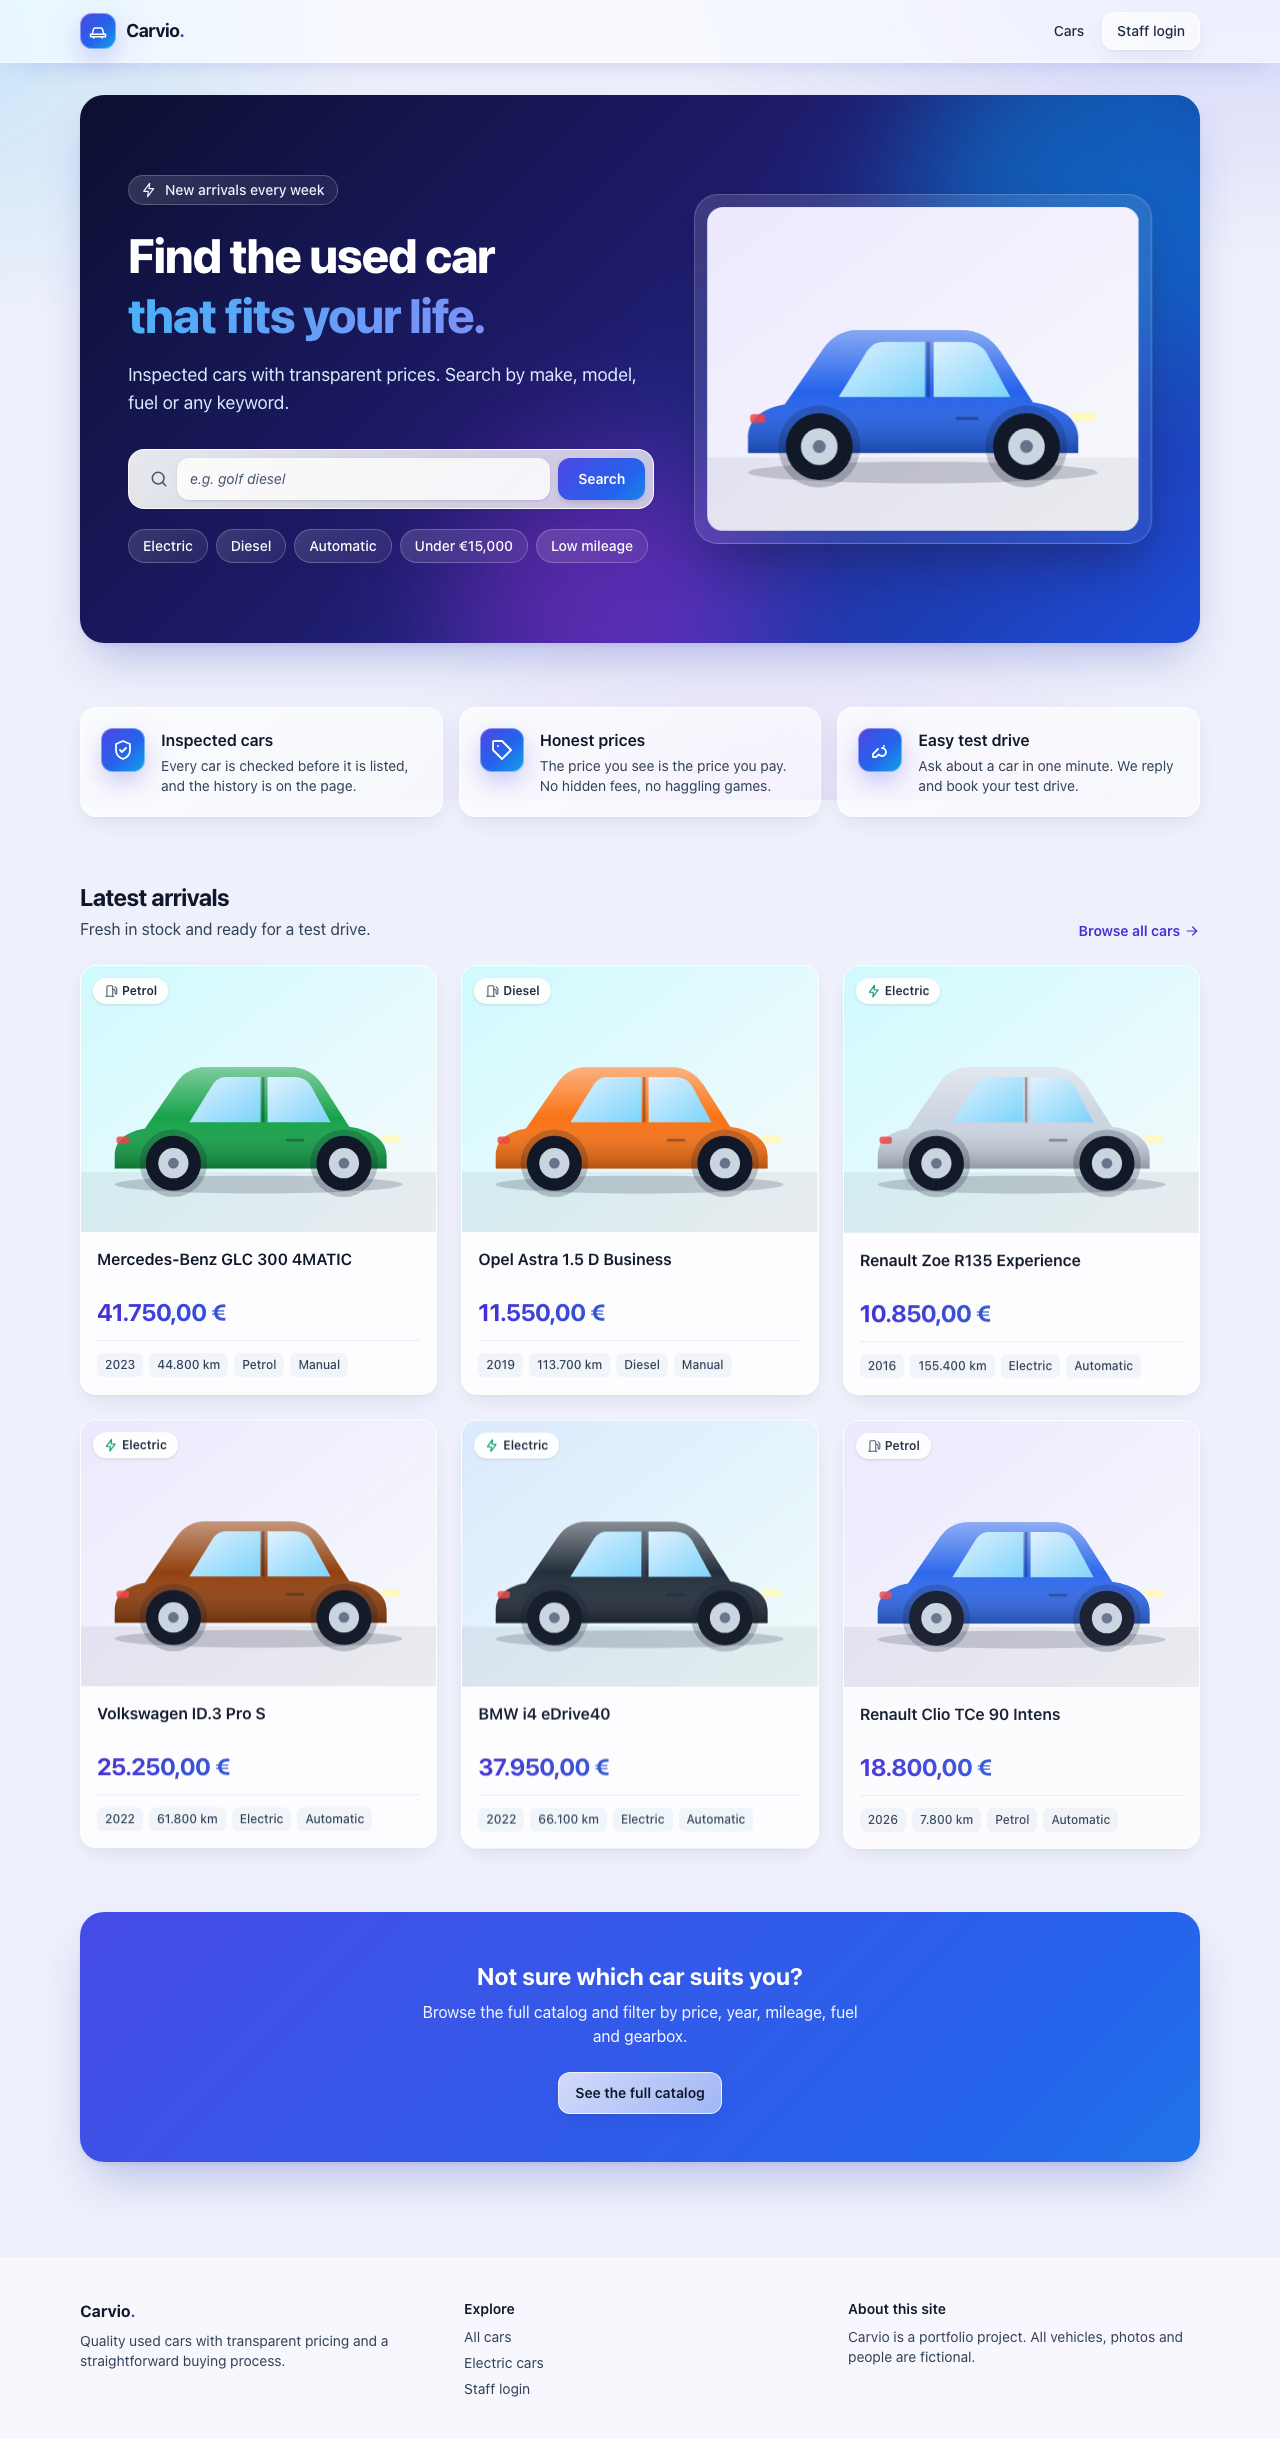
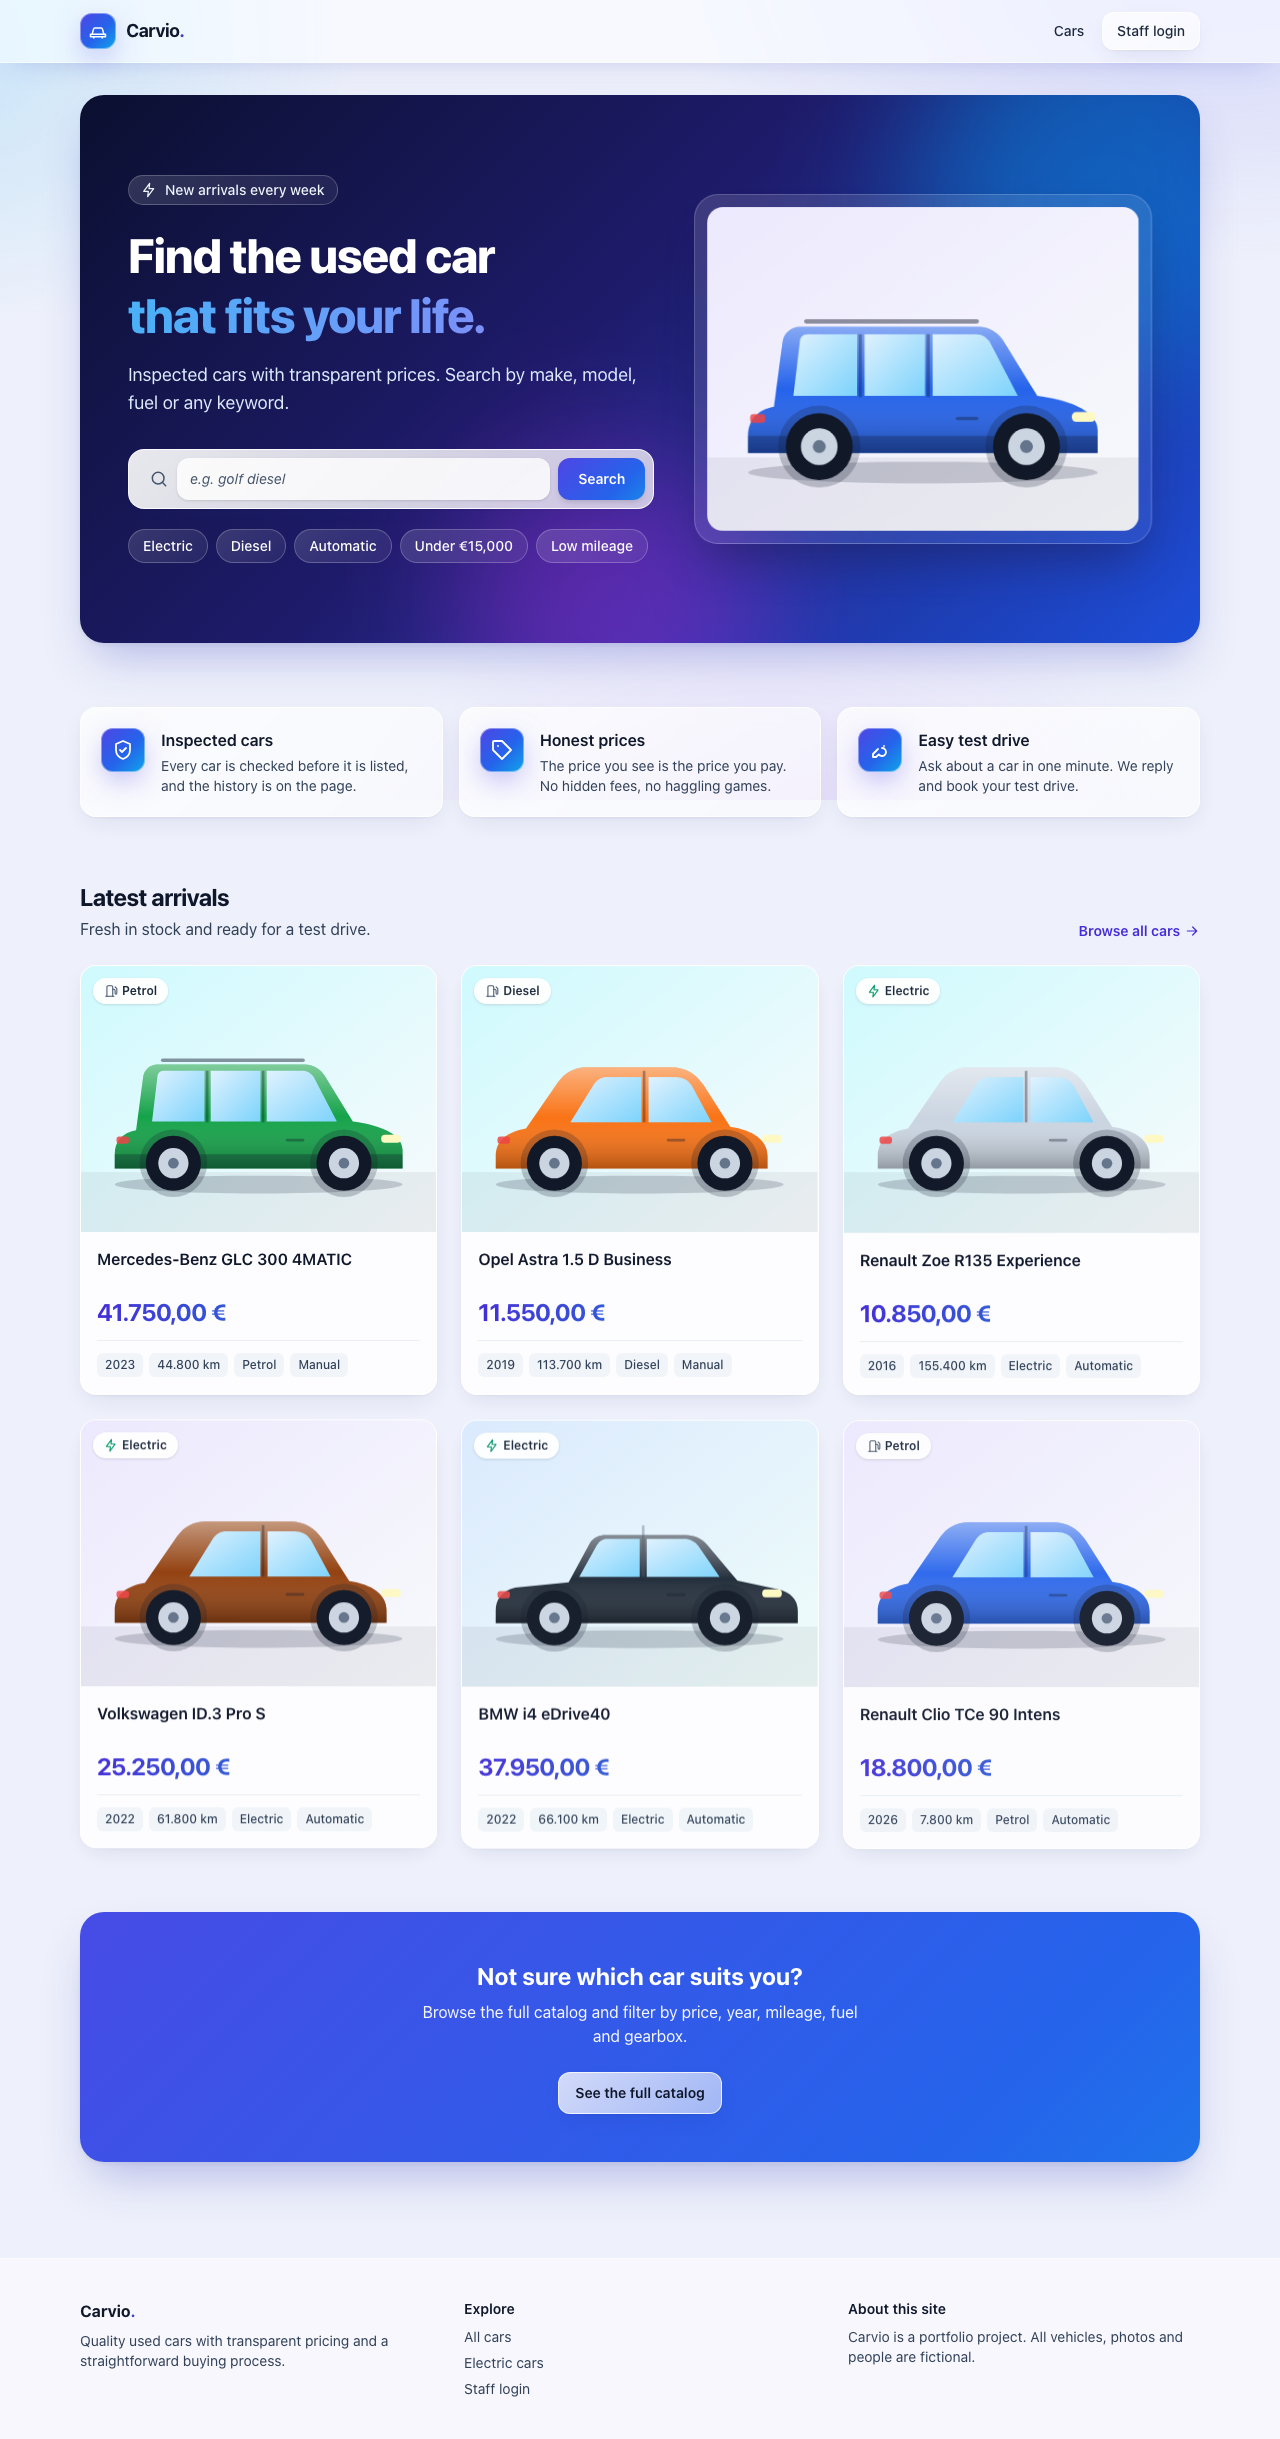
feat(web): body-type car illustrations and response-time and lead-source stats on the dashboard

diff --git a/apps/web/src/components/car-art.tsx b/apps/web/src/components/car-art.tsx
@@ -1,4 +1,50 @@
 import { useId } from 'react';
+import type { BodyType } from '@/lib/body-type';
+
+type Shape = {
+  body: string;
+  windows: string[];
+  pillars: number[];
+  rails?: string;
+  cladding?: string;
+};
+
+const SHAPES: Record<BodyType, Shape> = {
+  hatch: {
+    body: 'M38 214c0-17 12-27 34-31l36-52c8-11 18-17 32-17h96c15 0 27 7 36 20l30 47c26 4 42 15 42 33v14H38v-14Z',
+    windows: [
+      'M122 176l26-42c4-6 9-9 16-9h38v51H122Z',
+      'M210 125h30c8 0 14 3 19 10l22 41h-71v-51Z',
+    ],
+    pillars: [205],
+  },
+  sedan: {
+    body: 'M38 214c0-12 6-22 22-26l60-6 24-44c4-6 10-9 18-9h90c10 0 18 4 24 11l34 40 46 10c14 3 22 12 22 24v14H38v-14Z',
+    windows: ['M132 176l20-36c3-5 7-7 12-7h36v43z', 'M208 133h42c7 0 12 3 16 8l24 35h-82z'],
+    pillars: [204],
+  },
+  wagon: {
+    body: 'M38 214c0-12 6-22 22-26l12-46c1-7 7-12 14-12h166c10 0 18 4 24 11l34 39 46 10c14 3 22 12 22 24v14H38v-14Z',
+    windows: [
+      'M90 176l-4-38c0-3 2-5 5-5h54v43z',
+      'M152 133h50v43h-50z',
+      'M209 133h41c7 0 12 3 16 8l24 35h-81z',
+    ],
+    pillars: [148, 205],
+    rails: 'M90 125h160',
+  },
+  suv: {
+    body: 'M38 212c0-14 8-24 24-27l8-60c1-8 8-14 16-14h166c9 0 17 5 22 12l32 52c24 3 56 12 56 32v21H38v-16Z',
+    windows: [
+      'M80 175l6-50c0-4 3-7 7-7h46v57z',
+      'M146 118h56v57h-56z',
+      'M209 118h40c6 0 10 3 13 7l26 50h-79z',
+    ],
+    pillars: [142, 205],
+    rails: 'M92 106h158',
+    cladding: 'M38 212h324v16H38z',
+  },
+};
 
 const BODY: Record<string, string> = {
   black: '#1f2937',
@@ -42,17 +88,20 @@ export function CarArt({
   seed,
   colour,
   label,
+  body: bodyType = 'hatch',
   className = 'h-full w-full',
 }: {
   seed: string;
+  body?: BodyType;
   colour?: string | null;
   label: string;
   className?: string;
 }) {
   const uid = useId().replace(/:/g, '');
   const [from, to] = BACKDROPS[hash(seed) % BACKDROPS.length];
-  const body = bodyColour(colour);
-  const dark = body === '#1f2937';
+  const paint = bodyColour(colour);
+  const dark = paint === '#1f2937';
+  const shape = SHAPES[bodyType];
   return (
     <svg
       viewBox="0 0 400 300"
@@ -78,23 +127,30 @@ export function CarArt({
       <rect width="400" height="300" fill={`url(#${uid}-bg)`} />
       <rect y="232" width="400" height="68" fill="#0f172a" opacity="0.06" />
       <ellipse cx="200" cy="246" rx="162" ry="10" fill="#0f172a" opacity="0.18" />
-      <path
-        id={`${uid}-body`}
-        d="M38 214c0-17 12-27 34-31l36-52c8-11 18-17 32-17h96c15 0 27 7 36 20l30 47c26 4 42 15 42 33v14H38v-14Z"
-        fill={body}
-      />
-      <path
-        d="M38 214c0-17 12-27 34-31l36-52c8-11 18-17 32-17h96c15 0 27 7 36 20l30 47c26 4 42 15 42 33v14H38v-14Z"
-        fill={`url(#${uid}-sheen)`}
-      />
-      <path d="M122 176l26-42c4-6 9-9 16-9h38v51H122Z" fill={`url(#${uid}-glass)`} />
-      <path d="M210 125h30c8 0 14 3 19 10l22 41h-71v-51Z" fill={`url(#${uid}-glass)`} />
-      <path
-        d="M205 125v51"
-        stroke={dark ? '#475569' : '#0f172a'}
-        strokeOpacity="0.35"
-        strokeWidth="3"
-      />
+      <path d={shape.body} fill={paint} />
+      <path d={shape.body} fill={`url(#${uid}-sheen)`} />
+      {shape.cladding && <path d={shape.cladding} fill="#0f172a" opacity="0.28" />}
+      {shape.rails && (
+        <path
+          d={shape.rails}
+          stroke="#0f172a"
+          strokeOpacity="0.45"
+          strokeWidth="4"
+          strokeLinecap="round"
+        />
+      )}
+      {shape.windows.map((d) => (
+        <path key={d} d={d} fill={`url(#${uid}-glass)`} />
+      ))}
+      {shape.pillars.map((x) => (
+        <path
+          key={x}
+          d={`M${x} 118v58`}
+          stroke={dark ? '#475569' : '#0f172a'}
+          strokeOpacity="0.35"
+          strokeWidth="3"
+        />
+      ))}
       <rect x="338" y="190" width="22" height="9" rx="4" fill="#fef9c3" />
       <rect x="40" y="192" width="14" height="8" rx="3" fill="#ef4444" opacity="0.85" />
       <path

diff --git a/apps/web/src/components/dashboard.tsx b/apps/web/src/components/dashboard.tsx
@@ -2,9 +2,14 @@
 
 import Link from 'next/link';
 import { useEffect, useState } from 'react';
-import { LEAD_STATUSES, VEHICLE_STATUSES } from '@dealer/shared';
+import { LEAD_SOURCES, LEAD_STATUSES, VEHICLE_STATUSES } from '@dealer/shared';
 import { api, describeError } from '@/lib/api';
-import { LEAD_STATUS_LABEL, VEHICLE_STATUS_LABEL } from '@/lib/format';
+import {
+  formatHours,
+  LEAD_SOURCE_LABEL,
+  LEAD_STATUS_LABEL,
+  VEHICLE_STATUS_LABEL,
+} from '@/lib/format';
 import { useRemote } from '@/lib/use-remote';
 import { useUser } from '@/lib/session';
 import { ErrorState, Spinner } from './ui';
@@ -182,6 +187,7 @@ export function Dashboard() {
   const total = LEAD_STATUSES.reduce((n, st) => n + s.leads[st], 0);
   const open = s.leads.NEW + s.leads.CONTACTED + s.leads.TEST_DRIVE + s.leads.OFFER;
   const closed = s.leads.WON + s.leads.LOST;
+  const sourceTotal = LEAD_SOURCES.reduce((n, src) => n + s.leadsBySource[src], 0);
 
   return (
     <div className="space-y-8">
@@ -213,6 +219,65 @@ export function Dashboard() {
             label="Vehicles published"
             value={s.vehicles.PUBLISHED}
           />
+        </ul>
+      </section>
+
+      <section aria-labelledby="resp-h">
+        <h2 id="resp-h" className={H2}>
+          Response time
+        </h2>
+        <ul className="grid grid-cols-2 gap-3 lg:grid-cols-4">
+          <Stat
+            index={0}
+            label="Average first response"
+            value={formatHours(s.firstResponse.averageHours)}
+            note={`${s.firstResponse.sampleSize} answered in the last 30 days`}
+          />
+          <Stat
+            index={1}
+            label="Median first response"
+            value={formatHours(s.firstResponse.medianHours)}
+            note="Half of leads are answered faster"
+          />
+          <Stat
+            index={2}
+            href="/admin/leads?status=NEW"
+            label="Waiting over 24 h"
+            value={s.overdueLeads}
+            dot={s.overdueLeads > 0 ? 'bg-rose-500' : 'bg-emerald-500'}
+            note={s.overdueLeads > 0 ? 'New leads that need a reply' : 'Everyone has been answered'}
+          />
+        </ul>
+      </section>
+
+      <section aria-labelledby="src-h">
+        <h2 id="src-h" className={H2}>
+          Where leads come from
+        </h2>
+        <ul className="glass space-y-3 rounded-2xl p-5">
+          {LEAD_SOURCES.map((src) => {
+            const n = s.leadsBySource[src];
+            const share = pct(n, sourceTotal);
+            return (
+              <li key={src}>
+                <div className="flex items-baseline justify-between text-sm">
+                  <span className="font-medium text-slate-800">{LEAD_SOURCE_LABEL[src]}</span>
+                  <span className="tabular-nums text-slate-700">
+                    <strong className="text-slate-900">{n}</strong> · {share}%
+                  </span>
+                </div>
+                <div
+                  aria-hidden="true"
+                  className="mt-1.5 h-2 overflow-hidden rounded-full bg-slate-200/80"
+                >
+                  <div
+                    className="h-full origin-left animate-grow rounded-full bg-brand"
+                    style={{ width: `${share}%` }}
+                  />
+                </div>
+              </li>
+            );
+          })}
         </ul>
       </section>
 

diff --git a/apps/web/src/components/vehicle-photo.tsx b/apps/web/src/components/vehicle-photo.tsx
@@ -1,5 +1,6 @@
 import type { VehicleImage } from '@dealer/shared';
 import { assetUrl } from '@/lib/api';
+import { bodyTypeOf } from '@/lib/body-type';
 import { CarArt } from './car-art';
 
 /** The demo seed links to placehold.co grey boxes; those are shown as a drawn car instead. */
@@ -20,7 +21,7 @@ export function VehiclePhoto({
   className = 'h-full w-full object-cover',
 }: {
   image: Pick<VehicleImage, 'url'>;
-  vehicle: { id: string; color?: string | null };
+  vehicle: { id: string; color?: string | null; model?: string; variant?: string | null };
   alt: string;
   loading?: 'lazy';
   className?: string;
@@ -30,6 +31,7 @@ export function VehiclePhoto({
       <CarArt
         seed={`${vehicle.id}${image.url}`}
         colour={vehicle.color}
+        body={bodyTypeOf(vehicle)}
         label={alt}
         className={className}
       />

diff --git a/apps/web/src/lib/body-type.ts b/apps/web/src/lib/body-type.ts
@@ -1,0 +1,28 @@
+export type BodyType = 'hatch' | 'sedan' | 'wagon' | 'suv';
+
+const BY_MODEL: Record<string, BodyType> = {
+  '320d': 'sedan',
+  'c 220 d': 'sedan',
+  a4: 'sedan',
+  i4: 'sedan',
+  'model 3': 'sedan',
+  focus: 'wagon',
+  i30: 'wagon',
+  octavia: 'wagon',
+  passat: 'wagon',
+  'e-tron': 'suv',
+  enyaq: 'suv',
+  'glc 300': 'suv',
+  'ioniq 5': 'suv',
+  kuga: 'suv',
+  q3: 'suv',
+  tiguan: 'suv',
+  x3: 'suv',
+};
+
+/** The seed has no body-type column, so the silhouette is derived from the model (or variant name). */
+export function bodyTypeOf(v: { model?: string; variant?: string | null }): BodyType {
+  const variant = (v.variant ?? '').toLowerCase();
+  if (/\b(variant|touring|combi|estate|sportswagon)\b/.test(variant)) return 'wagon';
+  return BY_MODEL[(v.model ?? '').toLowerCase()] ?? 'hatch';
+}

diff --git a/apps/web/src/lib/body-type.test.ts b/apps/web/src/lib/body-type.test.ts
@@ -1,0 +1,19 @@
+import { bodyTypeOf } from './body-type';
+
+describe('bodyTypeOf', () => {
+  it('maps known models to a silhouette', () => {
+    expect(bodyTypeOf({ model: 'Tiguan' })).toBe('suv');
+    expect(bodyTypeOf({ model: 'Passat' })).toBe('wagon');
+    expect(bodyTypeOf({ model: 'Model 3' })).toBe('sedan');
+    expect(bodyTypeOf({ model: 'Golf' })).toBe('hatch');
+  });
+
+  it('falls back to a hatchback for unknown models', () => {
+    expect(bodyTypeOf({ model: 'Unknown' })).toBe('hatch');
+    expect(bodyTypeOf({})).toBe('hatch');
+  });
+
+  it('lets an estate-style variant name win over the model', () => {
+    expect(bodyTypeOf({ model: 'A4', variant: 'Avant Touring' })).toBe('wagon');
+  });
+});

diff --git a/apps/web/src/lib/format.ts b/apps/web/src/lib/format.ts
@@ -46,3 +46,17 @@ export const formatDateTime = (iso: string): string =>
 
 export const vehicleTitle = (v: Pick<Vehicle, 'make' | 'model' | 'variant'>): string =>
   [v.make, v.model, v.variant].filter(Boolean).join(' ');
+
+/** Hours as a short human duration: minutes under an hour, otherwise one decimal of hours. */
+export const formatHours = (hours: number | null): string => {
+  if (hours === null) return '—';
+  if (hours < 1) return `${Math.max(1, Math.round(hours * 60))} min`;
+  return `${Math.round(hours * 10) / 10} h`;
+};
+
+export const LEAD_SOURCE_LABEL: Record<string, string> = {
+  WEB: 'Website',
+  PHONE: 'Phone',
+  MARKETPLACE: 'Marketplace',
+  OTHER: 'Other',
+};

diff --git a/apps/web/src/lib/format.test.ts b/apps/web/src/lib/format.test.ts
@@ -11,3 +11,13 @@ describe('date formatting', () => {
     expect(formatDate('2026-06-01T10:00:00.000Z')).toMatch(/^\d{2}\.\d{2}\.\d{4}$/);
   });
 });
+
+describe('formatHours', () => {
+  it('shows minutes under an hour and hours otherwise', async () => {
+    const { formatHours } = await import('./format');
+    expect(formatHours(null)).toBe('—');
+    expect(formatHours(0.5)).toBe('30 min');
+    expect(formatHours(0.001)).toBe('1 min');
+    expect(formatHours(13.44)).toBe('13.4 h');
+  });
+});

diff --git a/apps/web/src/app/page.tsx b/apps/web/src/app/page.tsx
@@ -119,7 +119,7 @@ export default async function HomePage() {
             className="glass-dark relative hidden animate-float overflow-hidden rounded-3xl p-3 shadow-2xl shadow-indigo-950/50 lg:block"
           >
             <div className="aspect-[4/3] overflow-hidden rounded-2xl">
-              <CarArt seed="hero" colour="blue" label="" />
+              <CarArt seed="hero" colour="blue" body="suv" label="" />
             </div>
           </div>
         </div>

diff --git a/apps/web/src/app/admin/login/page.tsx b/apps/web/src/app/admin/login/page.tsx
@@ -16,7 +16,7 @@ export default function LoginPage() {
         <div>
           <div className="mb-6 overflow-hidden rounded-2xl ring-1 ring-white/20">
             <div className="aspect-[4/3]">
-              <CarArt seed="login" colour="silver" label="" />
+              <CarArt seed="login" colour="silver" body="sedan" label="" />
             </div>
           </div>
           <p className="text-2xl font-bold leading-snug">

diff --git a/apps/web/src/components/gallery.tsx b/apps/web/src/components/gallery.tsx
@@ -12,7 +12,7 @@ export function Gallery({
 }: {
   images: VehicleImage[];
   title: string;
-  vehicle: { id: string; color: string | null };
+  vehicle: { id: string; color: string | null; model?: string; variant?: string | null };
 }) {
   const [index, setIndex] = useState(0);
 
